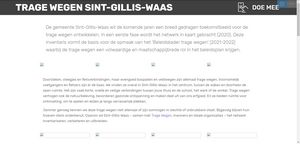
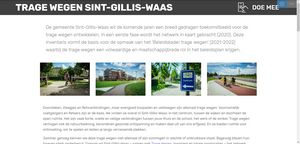
lay-out en tekst-edits
letterype geüniformiseerd, Hoofdletters en leestekens toegevoegd, mobile-friendly gemaakt (koppeltekens e.d.)

Changed region(s): [[0.12, 0.4167, 0.87, 1.0], [0.93, 0.0, 0.96, 0.0556], [0.99, 0.2222, 1.0, 0.25]]

diff --git a/index.html b/index.html
@@ -6,7 +6,7 @@
   <meta http-equiv="X-UA-Compatible" content="IE=edge">
   <meta name="generator" content="Mobirise v4.12.4, mobirise.com">
   <meta name="viewport" content="width=device-width, initial-scale=1, minimum-scale=1">
-  <link rel="shortcut icon" href="assets/images/sgw-logo-def-rgb-1-1.png" type="image/x-icon">
+  <link rel="shortcut icon" href="assets/images/sgw-logo-def-rgb-1-2.png" type="image/x-icon">
   <meta name="description" content="">
   
   
@@ -56,7 +56,7 @@
     </nav>
 </section>
 
-<section class="engine"><a href="https://mobirise.info/g">build a site</a></section><section class="mbr-section article content3 cid-rQbUgujYzw" id="content3-n">
+<section class="engine"><a href="https://mobirise.info/q">responsive website templates</a></section><section class="mbr-section article content3 cid-rQbUgujYzw" id="content3-n">
       
      
 
@@ -64,7 +64,7 @@
         <div class="media-container-row">
             <div class="row col-12 col-md-12">
                 <div class="col-12 mbr-text mbr-fonts-style col-md-12 display-2">
-                     <p>De gemeente Sint-Gillis-Waas&nbsp;wil de komende jaren een breed gedragen toekomstbeeld voor de trage wegen ontwikkelen. In een eerste fase wordt het netwerk in kaart gebracht (<span style="font-size: 1.5rem;">2020). Deze inventaris vormt de basis voor de opmaak van het 'Beleidskader trage wegen' (2021-2022) waarbij de trage wegen een volwaardige en maatschappijbrede rol in het beleidsplan krijgen.</span></p>
+                     <p>De gemeente Sint-Gillis-Waas&nbsp;wil de komende jaren een breed gedragen toekomstbeeld voor de trage wegen ontwikkelen. In een eerste fase wordt het netwerk in kaart gebracht (2020). Deze inventaris vormt de basis voor de opmaak van het 'Beleidskader trage wegen' (2021-2022) waarbij de trage wegen een volwaardige en maatschappijbrede rol in het beleidsplan krijgen.</p>
                 </div>
                 
                 
@@ -82,34 +82,34 @@
     <div class="container">
         
         
-        <div class="row mbr-gallery" data-toggle="modal" data-target="#s3prIlO2zc">
+        <div class="row mbr-gallery" data-toggle="modal" data-target="#s3puWcoPXf">
             <div class="col-sm-6 col-md-4 col-lg-3 item gallery-image">
                 <div class="item-wrapper">
-                    <img class="w-100" src="assets/images/tragewegen-201908-ingedelee-199.jpg" alt="" data-slide-to="0" title="" data-target="#s3prIlOpCF">
+                    <img class="w-100" src="assets/images/tragewegen-201908-ingedelee-199.jpg" alt="" data-slide-to="0" title="" data-target="#s3puWcop64">
                 </div>
             </div>
             <div class="col-sm-6 col-md-4 col-lg-3 item gallery-image">
                 <div class="item-wrapper">
-                    <img class="w-100" src="assets/images/tragewegen-201908-ingedelee-122.jpg" alt="" data-slide-to="1" title="" data-target="#s3prIlOpCF">
+                    <img class="w-100" src="assets/images/tragewegen-201908-ingedelee-122.jpg" alt="" data-slide-to="1" title="" data-target="#s3puWcop64">
                 </div>
             </div>
             <div class="col-sm-6 col-md-4 col-lg-3 item gallery-image">
                 <div class="item-wrapper">
-                    <img class="w-100" src="assets/images/tragewegen-201908-ingedelee-131.jpg" alt="" data-slide-to="2" title="" data-target="#s3prIlOpCF">
+                    <img class="w-100" src="assets/images/tragewegen-201908-ingedelee-131.jpg" alt="" data-slide-to="2" title="" data-target="#s3puWcop64">
                 </div>
             </div><div class="col-sm-6 col-md-4 col-lg-3 item gallery-image">
                 <div class="item-wrapper">
-                    <img class="w-100" src="assets/images/tragewegen-201908-ingedelee-125.jpg" alt="" data-slide-to="3" title="" data-target="#s3prIlOpCF">
+                    <img class="w-100" src="assets/images/tragewegen-201908-ingedelee-125.jpg" alt="" data-slide-to="3" title="" data-target="#s3puWcop64">
                 </div>
             </div>
             
         </div>
 
-        <div class="modal mbr-slider fade" tabindex="-1" role="dialog" aria-hidden="true" id="s3prIlO2zc">
+        <div class="modal mbr-slider fade" tabindex="-1" role="dialog" aria-hidden="true" id="s3puWcoPXf">
             <div class="modal-dialog" role="document">
                 <div class="modal-content">
                     <div class="modal-body">
-                        <div class="carousel slide" data-ride="carousel" id="s3prIlOpCF">
+                        <div class="carousel slide" data-ride="carousel" id="s3puWcop64">
                             <div class="carousel-inner">
                                 <div class="carousel-item active">
                                     <img class="d-block w-100" src="assets/images/tragewegen-201908-ingedelee-199.jpg" alt="">
@@ -125,18 +125,18 @@
                                 
                             </div>
                             <ol class="carousel-indicators">
-                                <li data-slide-to="0" class="active" data-target="#s3prIlOpCF"></li><li data-slide-to="1" class="active" data-target="#s3prIlOpCF"></li>
-                                <li data-slide-to="2" data-target="#s3prIlOpCF"></li>
-                                <li data-slide-to="3" data-target="#s3prIlOpCF"></li>
+                                <li data-slide-to="0" class="active" data-target="#s3puWcop64"></li><li data-slide-to="1" class="active" data-target="#s3puWcop64"></li>
+                                <li data-slide-to="2" data-target="#s3puWcop64"></li>
+                                <li data-slide-to="3" data-target="#s3puWcop64"></li>
                                 
                             </ol>
                             <a role="button" href="" class="close" data-dismiss="modal" aria-label="Close">
                             </a>
-                            <a class="carousel-control-prev carousel-control" role="button" data-slide="prev" href="#s3prIlOpCF">
+                            <a class="carousel-control-prev carousel-control" role="button" data-slide="prev" href="#s3puWcop64">
                                 <span class="mbri-left mbr-iconfont" aria-hidden="true"></span>
                                 <span class="sr-only">Vorige</span>
                             </a>
-                            <a class="carousel-control-next carousel-control" role="button" data-slide="next" href="#s3prIlOpCF">
+                            <a class="carousel-control-next carousel-control" role="button" data-slide="next" href="#s3puWcop64">
                                 <span class="mbri-right mbr-iconfont" aria-hidden="true"></span>
                                 <span class="sr-only">Volgende</span>
                             </a>
@@ -170,34 +170,34 @@
     <div class="container">
         
         
-        <div class="row mbr-gallery" data-toggle="modal" data-target="#s3prIlP46c">
+        <div class="row mbr-gallery" data-toggle="modal" data-target="#s3puWcp3HV">
             <div class="col-sm-6 col-md-4 col-lg-3 item gallery-image">
                 <div class="item-wrapper">
-                    <img class="w-100" src="assets/images/tragewegen-201908-ingedelee-90.jpg" alt="" data-slide-to="0" title="" data-target="#s3prIlPJyi">
+                    <img class="w-100" src="assets/images/tragewegen-201908-ingedelee-90.jpg" alt="" data-slide-to="0" title="" data-target="#s3puWcpHFr">
                 </div>
             </div><div class="col-sm-6 col-md-4 col-lg-3 item gallery-image">
                 <div class="item-wrapper">
-                    <img class="w-100" src="assets/images/tragewegen-201908-ingedelee-77.jpg" alt="" data-slide-to="1" title="" data-target="#s3prIlPJyi">
+                    <img class="w-100" src="assets/images/tragewegen-201908-ingedelee-77.jpg" alt="" data-slide-to="1" title="" data-target="#s3puWcpHFr">
                 </div>
             </div><div class="col-sm-6 col-md-4 col-lg-3 item gallery-image">
                 <div class="item-wrapper">
-                    <img class="w-100" src="assets/images/tragewegen-201908-ingedelee-170.jpg" alt="" data-slide-to="2" title="" data-target="#s3prIlPJyi">
+                    <img class="w-100" src="assets/images/tragewegen-201908-ingedelee-170.jpg" alt="" data-slide-to="2" title="" data-target="#s3puWcpHFr">
                 </div>
             </div>
             <div class="col-sm-6 col-md-4 col-lg-3 item gallery-image">
                 <div class="item-wrapper">
-                    <img class="w-100" src="assets/images/tragewegen-201908-ingedelee-163.jpg" alt="" data-slide-to="3" title="" data-target="#s3prIlPJyi">
+                    <img class="w-100" src="assets/images/tragewegen-201908-ingedelee-163.jpg" alt="" data-slide-to="3" title="" data-target="#s3puWcpHFr">
                 </div>
             </div>
             
             
         </div>
 
-        <div class="modal mbr-slider fade" tabindex="-1" role="dialog" aria-hidden="true" id="s3prIlP46c">
+        <div class="modal mbr-slider fade" tabindex="-1" role="dialog" aria-hidden="true" id="s3puWcp3HV">
             <div class="modal-dialog" role="document">
                 <div class="modal-content">
                     <div class="modal-body">
-                        <div class="carousel slide" data-ride="carousel" id="s3prIlPJyi">
+                        <div class="carousel slide" data-ride="carousel" id="s3puWcpHFr">
                             <div class="carousel-inner">
                                 <div class="carousel-item active">
                                     <img class="d-block w-100" src="assets/images/tragewegen-201908-ingedelee-90.jpg" alt="">
@@ -213,18 +213,18 @@
                                 
                             </div>
                             <ol class="carousel-indicators">
-                                <li data-slide-to="0" class="active" data-target="#s3prIlPJyi"></li>
-                                <li data-slide-to="1" data-target="#s3prIlPJyi"></li>
-                                <li data-slide-to="2" data-target="#s3prIlPJyi"></li>
-                                <li data-slide-to="3" data-target="#s3prIlPJyi"></li>
+                                <li data-slide-to="0" class="active" data-target="#s3puWcpHFr"></li>
+                                <li data-slide-to="1" data-target="#s3puWcpHFr"></li>
+                                <li data-slide-to="2" data-target="#s3puWcpHFr"></li>
+                                <li data-slide-to="3" data-target="#s3puWcpHFr"></li>
                             </ol>
                             <a role="button" href="" class="close" data-dismiss="modal" aria-label="Close">
                             </a>
-                            <a class="carousel-control-prev carousel-control" role="button" data-slide="prev" href="#s3prIlPJyi">
+                            <a class="carousel-control-prev carousel-control" role="button" data-slide="prev" href="#s3puWcpHFr">
                                 <span class="mbri-left mbr-iconfont" aria-hidden="true"></span>
                                 <span class="sr-only">Vorige</span>
                             </a>
-                            <a class="carousel-control-next carousel-control" role="button" data-slide="next" href="#s3prIlPJyi">
+                            <a class="carousel-control-next carousel-control" role="button" data-slide="next" href="#s3puWcpHFr">
                                 <span class="mbri-right mbr-iconfont" aria-hidden="true"></span>
                                 <span class="sr-only">Volgende</span>
                             </a>
@@ -276,7 +276,7 @@
                 <div class="col-xs-12 col-md-6 align-left ">
                     <div class="timeline-text-content">
                         <h4 class="mbr-timeline-title pb-3 mbr-fonts-style display-7">opmaak WERKKAART</h4>
-                        <p class="mbr-timeline-text mbr-fonts-style display-7">eerste analyse (mogelijke) trage wegen&nbsp;<br>op basis van beschikbare (digitale) bronnen&nbsp;<br></p>
+                        <p class="mbr-timeline-text mbr-fonts-style display-7">Eerste analyse (mogelijke) trage wegen&nbsp;<br>op basis van beschikbare (digitale) bronnen.<br></p>
                     </div>
                 </div>
             </div>
@@ -291,7 +291,7 @@
                 <div class="col-xs-12 col-md-6 align-right">
                     <div class="timeline-text-content">
                         <h4 class="mbr-timeline-title pb-3 mbr-fonts-style display-7">lancering oproep om mee te helpen&nbsp;</h4>      
-                        <p class="mbr-timeline-text mbr-fonts-style display-7">geïnteresseerde inwoners kunnen zich via de website aanmelden en de instructies raadplegen</p>
+                        <p class="mbr-timeline-text mbr-fonts-style display-7">Geïnteresseerde inwoners kunnen zich via de website aanmelden en de instructies raadplegen.</p>
                     </div>
                 </div>
             </div>
@@ -307,8 +307,7 @@
                 <div class="col-xs-12 col-md-6 align-left ">
                     <div class="timeline-text-content">
                         <h4 class="mbr-timeline-title pb-3 mbr-fonts-style display-7">terreincontroles</h4>
-                        <p class="mbr-timeline-text mbr-fonts-style display-7">
-                            inventariseerders controleren per 'hokje' de terreingegevens van de trage wegen</p>
+                        <p class="mbr-timeline-text mbr-fonts-style display-7">Inventariseerders controleren per 'hokje' de terreingegevens van de trage wegen.</p>
                     </div>
                 </div>
             </div>
@@ -323,7 +322,7 @@
                 <div class="col-xs-12 col-md-6 align-right">
                     <div class="timeline-text-content">
                         <h4 class="mbr-timeline-title pb-3 mbr-fonts-style display-7">info- of terugkoppelmoment(en)</h4>
-                        <p class="mbr-timeline-text mbr-fonts-style display-7">indien mogelijk of noodzakelijk zullen er een of meerdere info- of terugkoppelmomenten georganiseerd worden</p>
+                        <p class="mbr-timeline-text mbr-fonts-style display-7">Indien mogelijk of noodzakelijk zullen er een of meerdere info- of terugkoppel-momenten georganiseerd worden.</p>
                     </div>
                 </div>
             </div>
@@ -339,7 +338,7 @@
                 <div class="col-xs-12 col-md-6 align-left ">
                     <div class="timeline-text-content">
                         <h4 class="mbr-timeline-title pb-3 mbr-fonts-style display-7">deadline terreincontroles</h4>
-                        <p class="mbr-timeline-text mbr-fonts-style display-7">inventariseerders ronden hun terreinwerk af</p>
+                        <p class="mbr-timeline-text mbr-fonts-style display-7">Inventariseerders ronden hun terreinwerk af.</p>
                     </div>
                 </div>
             </div>
@@ -355,7 +354,7 @@
                     <div class="timeline-text-content">
                         <h4 class="mbr-timeline-title pb-3 mbr-fonts-style display-7"><strong>controle resultaten
 </strong><div><strong>opmaak EVALUATIEKAART</strong></div></h4>
-                        <p class="mbr-timeline-text mbr-fonts-style display-7">de resultaten van de inventarisatie worden gecontroleerd en gefinaliseerd en er wordt een evaluatie- of toegankelijkheidskaart van de trage wegen opgemaakt </p>
+                        <p class="mbr-timeline-text mbr-fonts-style display-7">De resultaten van de inventarisatie worden gecontroleerd en gefinaliseerd en er wordt een evaluatie- of toegankelijkheids-kaart van de trage wegen opgemaakt.</p>
                     </div>
                 </div>
             </div>
@@ -374,7 +373,7 @@
                         <h4 class="mbr-timeline-title pb-3 mbr-fonts-style display-2"><strong>
                             VISIEVORMING</strong></h4>
                         <p class="mbr-timeline-text mbr-fonts-style display-2">
-                            UITWERKEN VAN HET TOEKOMSTBEELD VAN HET TRAGEWEGENNETWERK, SAMEN MET INWONERS VAN SINT-GILLIS-WAAS</p>
+                            UITWERKEN VAN HET TOEKOMSTBEELD VAN HET TRAGEWEGENNETWERK, SAMEN MET INWONERS VAN SINT-GILLIS-WAAS.</p>
                     </div>
                 </div>
             </div>

diff --git a/page1.html b/page1.html
@@ -6,7 +6,7 @@
   <meta http-equiv="X-UA-Compatible" content="IE=edge">
   <meta name="generator" content="Mobirise v4.12.4, mobirise.com">
   <meta name="viewport" content="width=device-width, initial-scale=1, minimum-scale=1">
-  <link rel="shortcut icon" href="assets/images/sgw-logo-def-rgb-1-1.png" type="image/x-icon">
+  <link rel="shortcut icon" href="assets/images/sgw-logo-def-rgb-1-2.png" type="image/x-icon">
   <meta name="description" content="">
   
   
@@ -25,7 +25,38 @@
   
 </head>
 <body>
-  <section class="features2 cid-rQmQMGRh2Z" id="features2-2z">
+  <section class="menu cid-rQebA6QEnf" once="menu" id="menu1-1r">
+
+    
+
+    <nav class="navbar navbar-expand beta-menu navbar-dropdown align-items-center navbar-fixed-top navbar-toggleable-sm">
+        <button class="navbar-toggler navbar-toggler-right" type="button" data-toggle="collapse" data-target="#navbarSupportedContent" aria-controls="navbarSupportedContent" aria-expanded="false" aria-label="Toggle navigation">
+            <div class="hamburger">
+                <span></span>
+                <span></span>
+                <span></span>
+                <span></span>
+            </div>
+        </button>
+        <div class="menu-logo">
+            <div class="navbar-brand">
+                
+                <span class="navbar-caption-wrap"><a class="navbar-caption text-white display-1" href="index.html">
+                        TRAGE WEGEN SINT-GILLIS-WAAS</a></span>
+            </div>
+        </div>
+        <div class="collapse navbar-collapse" id="navbarSupportedContent">
+            <ul class="navbar-nav nav-dropdown nav-right" data-app-modern-menu="true"><li class="nav-item">
+                    <a class="nav-link link text-white display-4" href="page1.html"><span class="mbri-touch mbr-iconfont mbr-iconfont-btn"></span>
+                        
+                        DOE MEE</a>
+                </li></ul>
+            
+        </div>
+    </nav>
+</section>
+
+<section class="engine"><a href="https://mobirise.info/u">bootstrap responsive templates</a></section><section class="features2 cid-rQmQMGRh2Z" id="features2-2z">
 
     
 
@@ -72,37 +103,6 @@
             
         </div>
     </div>
-</section>
-
-<section class="engine"><a href="https://mobirise.info/l">free website templates</a></section><section class="menu cid-rQebA6QEnf" once="menu" id="menu1-1r">
-
-    
-
-    <nav class="navbar navbar-expand beta-menu navbar-dropdown align-items-center navbar-fixed-top navbar-toggleable-sm">
-        <button class="navbar-toggler navbar-toggler-right" type="button" data-toggle="collapse" data-target="#navbarSupportedContent" aria-controls="navbarSupportedContent" aria-expanded="false" aria-label="Toggle navigation">
-            <div class="hamburger">
-                <span></span>
-                <span></span>
-                <span></span>
-                <span></span>
-            </div>
-        </button>
-        <div class="menu-logo">
-            <div class="navbar-brand">
-                
-                <span class="navbar-caption-wrap"><a class="navbar-caption text-white display-1" href="index.html">
-                        TRAGE WEGEN SINT-GILLIS-WAAS</a></span>
-            </div>
-        </div>
-        <div class="collapse navbar-collapse" id="navbarSupportedContent">
-            <ul class="navbar-nav nav-dropdown nav-right" data-app-modern-menu="true"><li class="nav-item">
-                    <a class="nav-link link text-white display-4" href="page1.html"><span class="mbri-touch mbr-iconfont mbr-iconfont-btn"></span>
-                        
-                        DOE MEE</a>
-                </li></ul>
-            
-        </div>
-    </nav>
 </section>
 
 <section class="mbr-section article content1 cid-rQebA9BE8m" id="content1-1u">
@@ -161,7 +161,7 @@
         <div class="row justify-content-center">
             <div class="media-container-column col-lg-8" data-form-type="formoid">
                 <!---Formbuilder Form--->
[2 lines of base64/hex data omitted]
                     <div class="row">
                         <div hidden="hidden" data-form-alert="" class="alert alert-success col-12">Bedankt voor jouw enthousiasme en medewerking!</div>
                         <div hidden="hidden" data-form-alert-danger="" class="alert alert-danger col-12">
